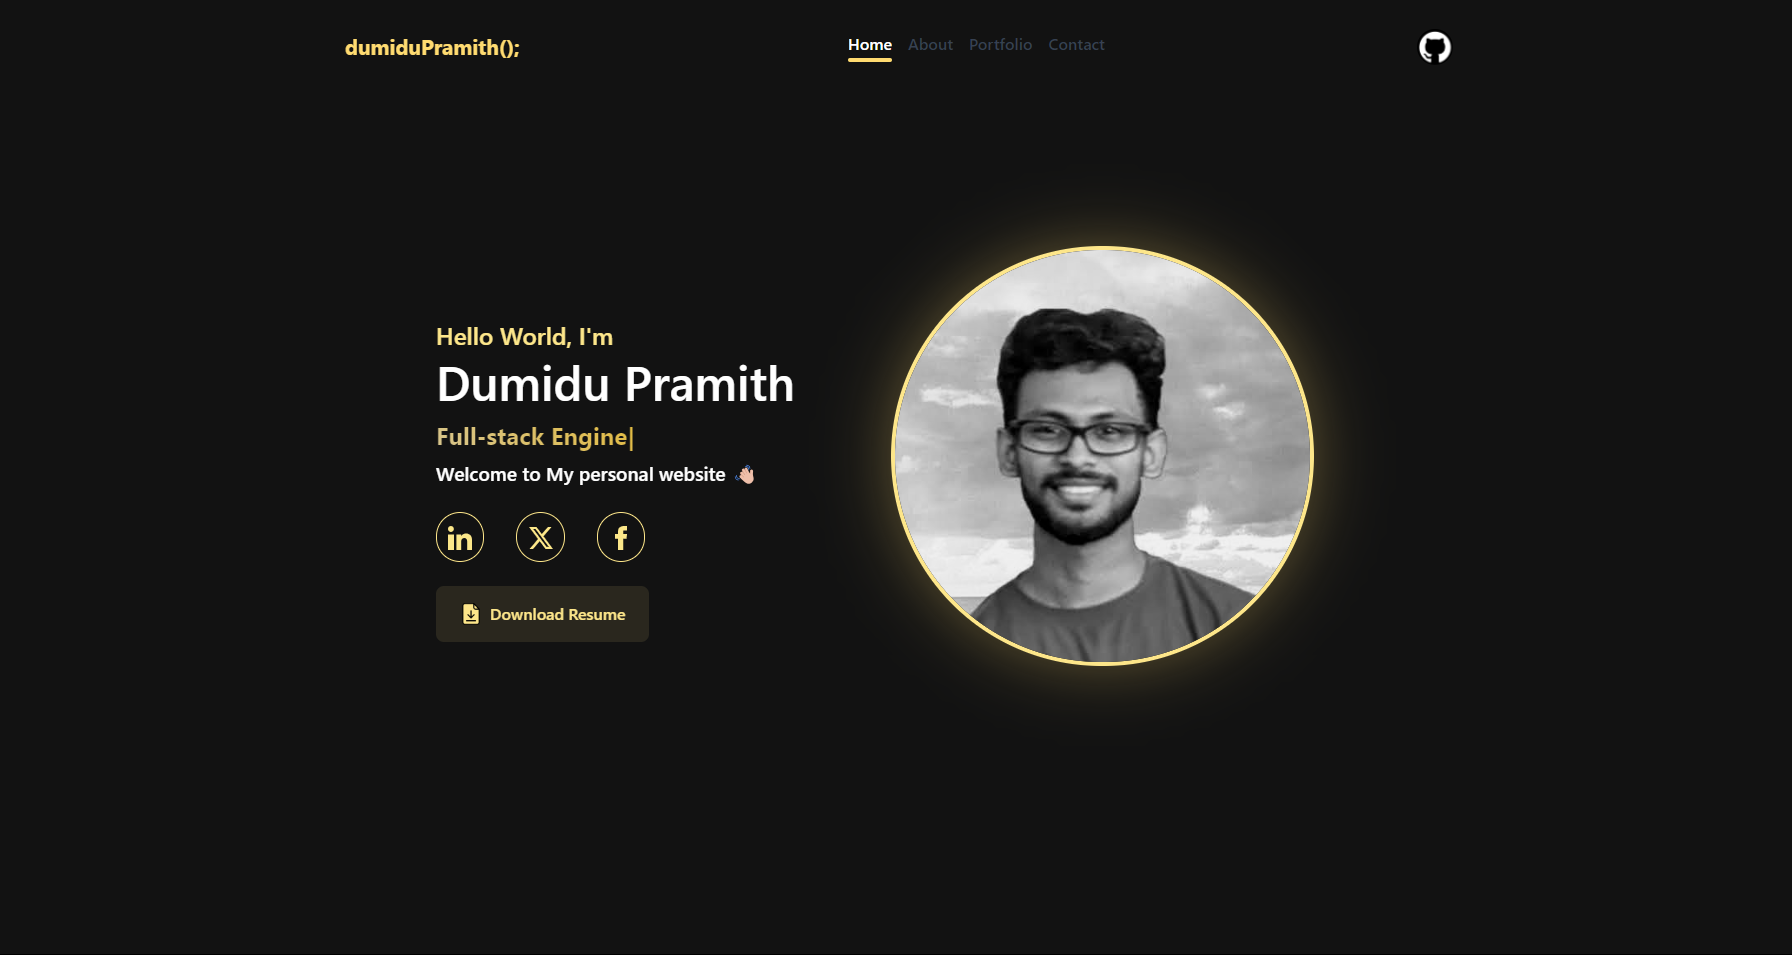
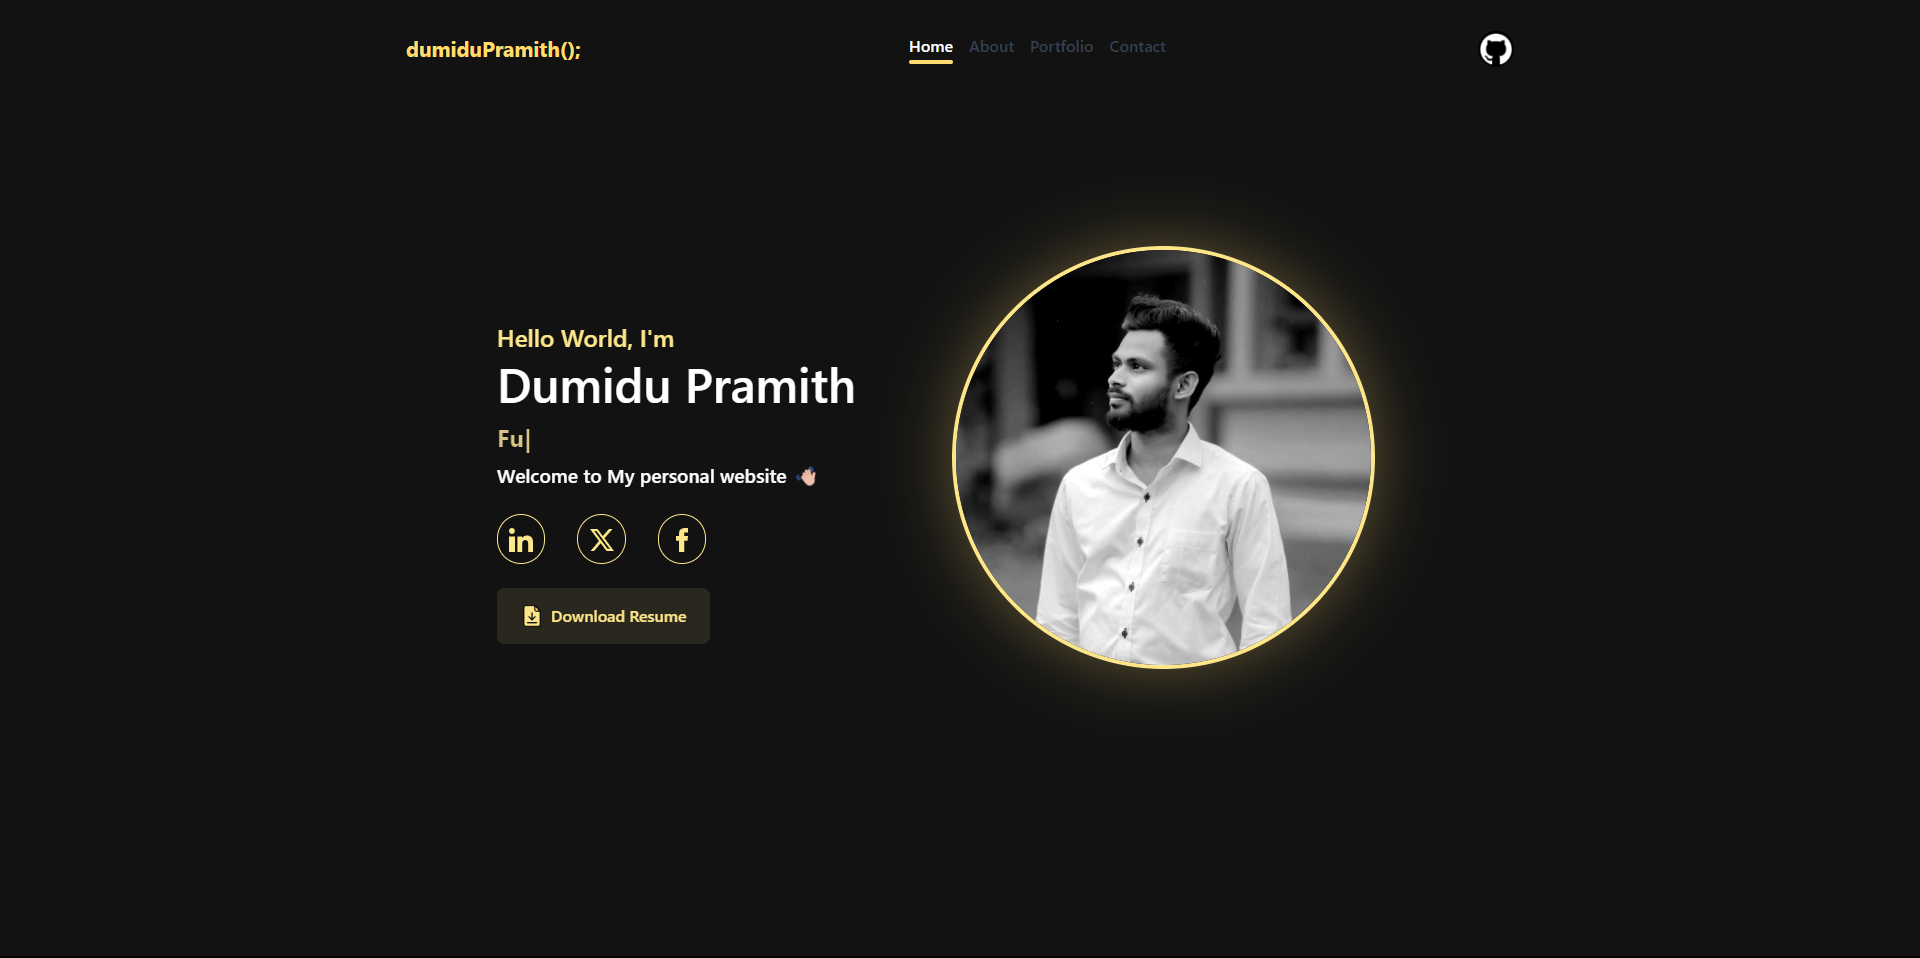
change profile picture

diff --git a/css/about.css b/css/about.css
@@ -3,6 +3,7 @@
 }
 
 .about-avatar {
+  max-width: 423px;
   width: 100%;
   height: auto;
 }
